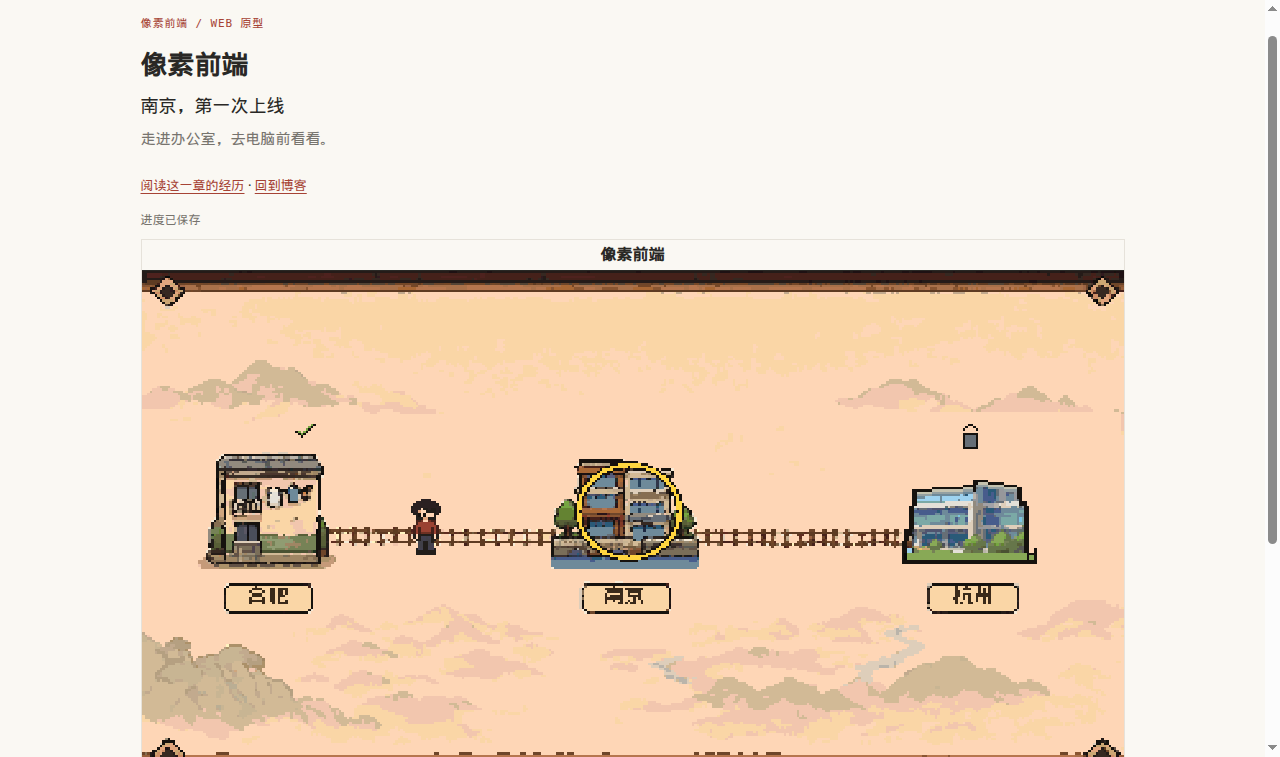
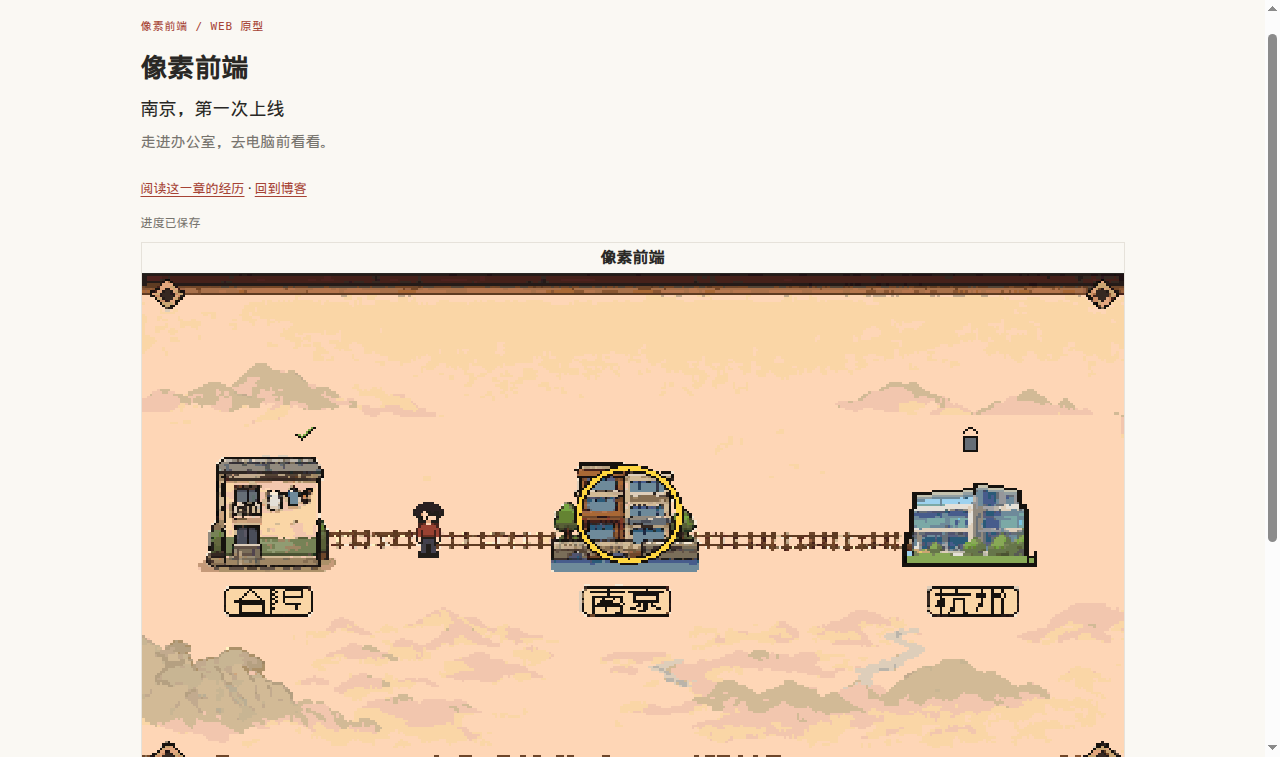
旅程地图地名改用 14×11 像素字，合肥可以一眼读清
8px 系统字再取阈值会把「合」画成「古」。牌子内腔按整数坐标贴像素字，最近邻放大后仍是合肥、南京、杭州。

diff --git a/games/career-rpg/handoff.md b/games/career-rpg/handoff.md
@@ -2,7 +2,7 @@
 
 ## 当前恢复点（2026-11-05，杭州换皮与改名）
 
-用户确认杭州美术和改名。运行图在 `web/art/hangzhou/`，旅程地图换成 v2，空地名牌由程序叠「合肥 / 南京 / 杭州」。游戏名是《像素前端》，旧口号已从玩家界面去掉。Webpack 和 Babel 共用左下那一屏：先读 Webpack，再读 Babel，然后在同一屏上先后拾取。不修走路卡顿，不做坐姿。
+用户确认杭州美术和改名。运行图在 `web/art/hangzhou/`，旅程地图换成 v2，空地名牌由程序叠「合肥 / 南京 / 杭州」。地名用 14×11 像素字，按整数坐标贴在牌内，不再用 8px 系统字取阈值。游戏名是《像素前端》，旧口号已从玩家界面去掉。Webpack 和 Babel 共用左下那一屏：先读 Webpack，再读 Babel，然后在同一屏上先后拾取。不修走路卡顿，不做坐姿。
 
 ## 当前恢复点（2026-11-05，南京技能与旅程地图）
 
